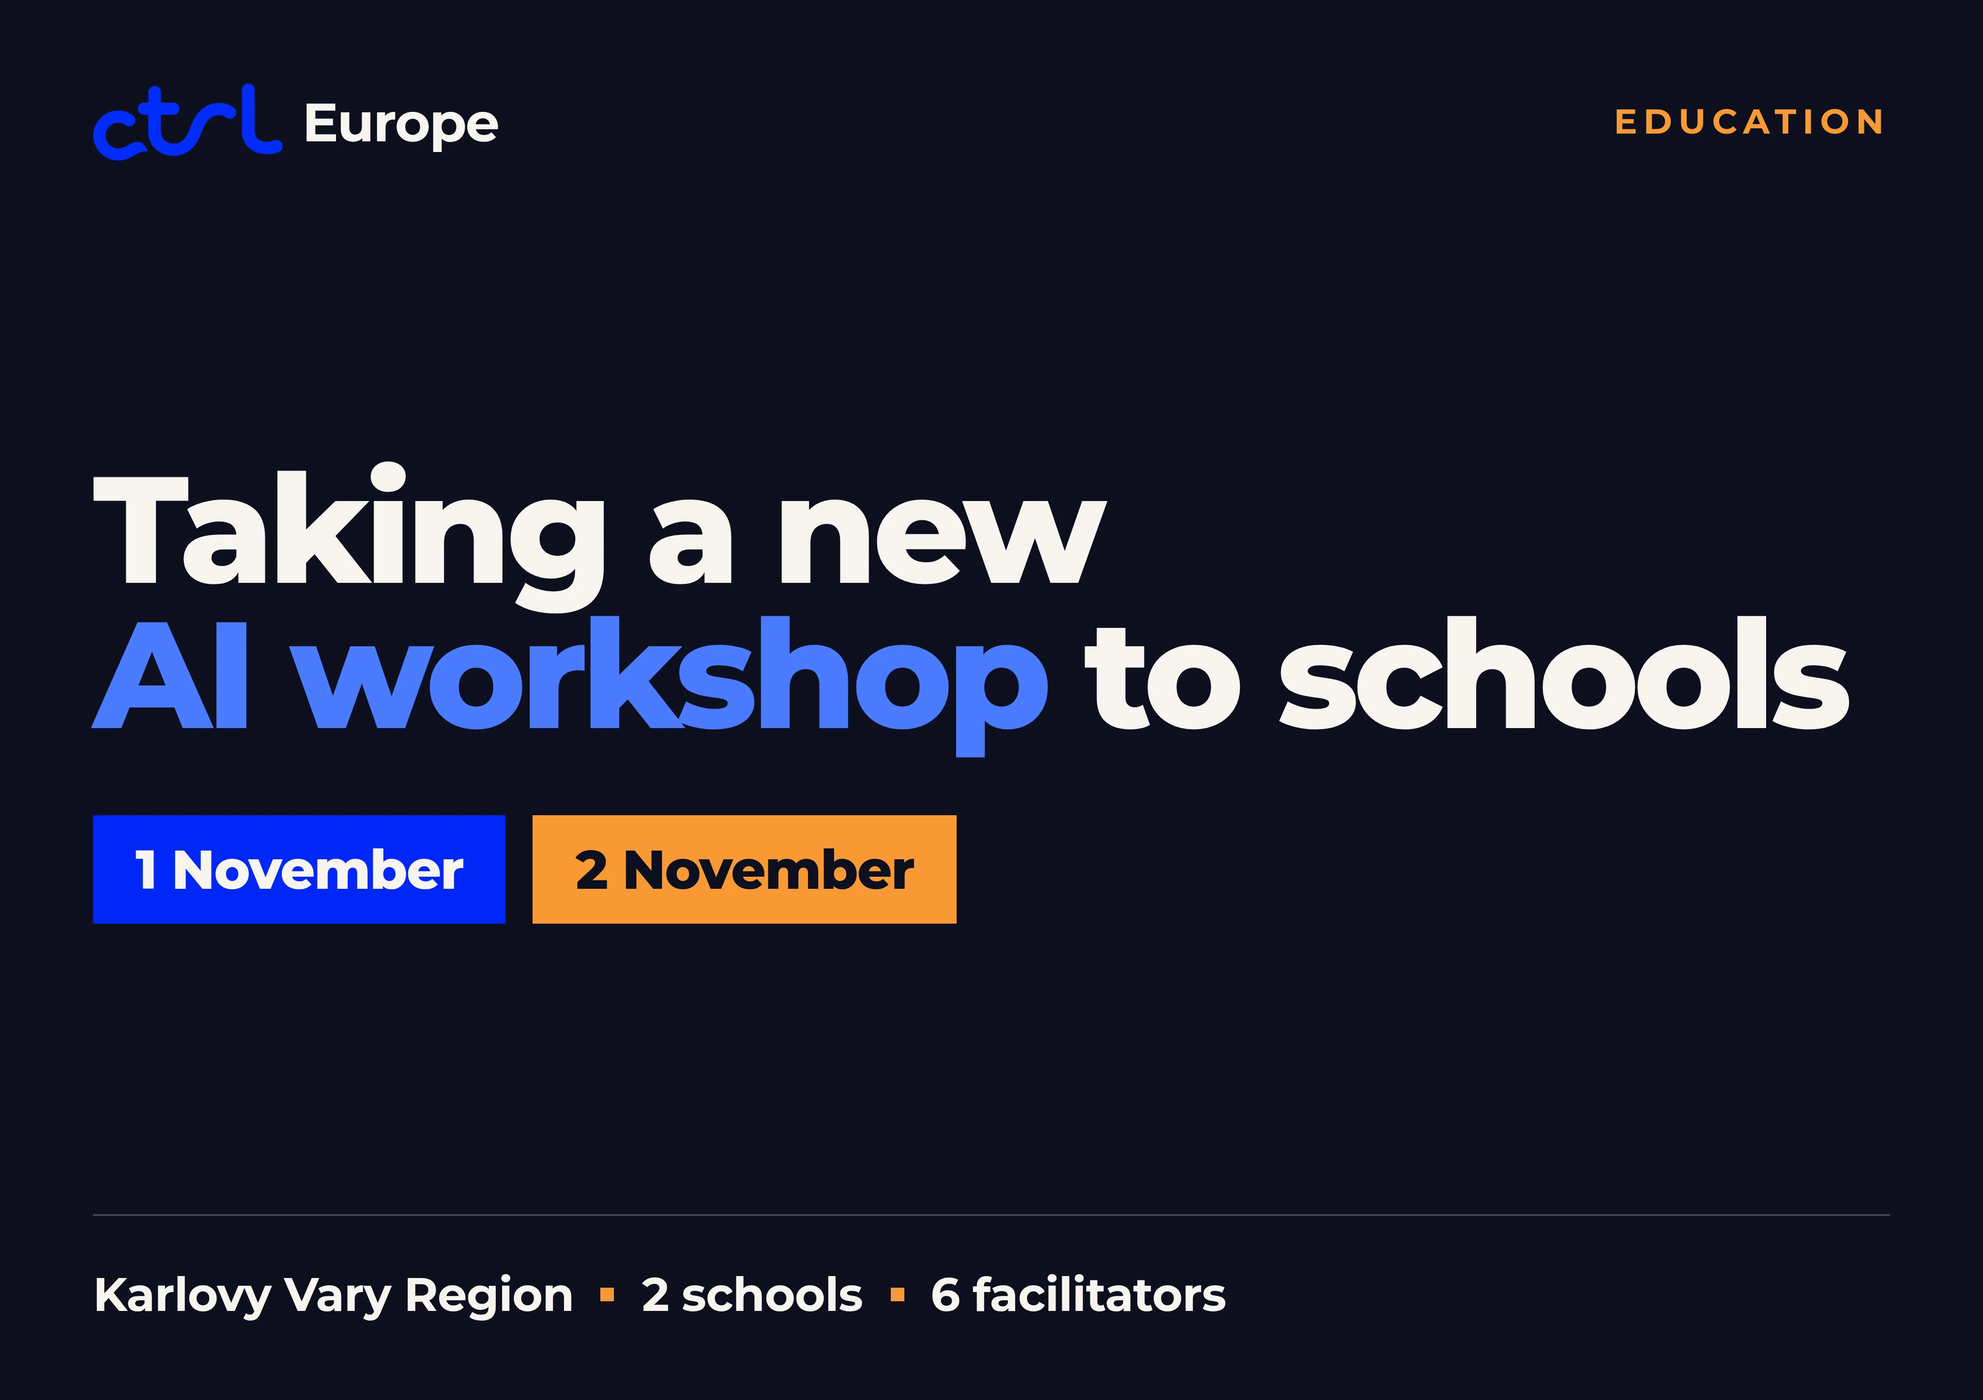
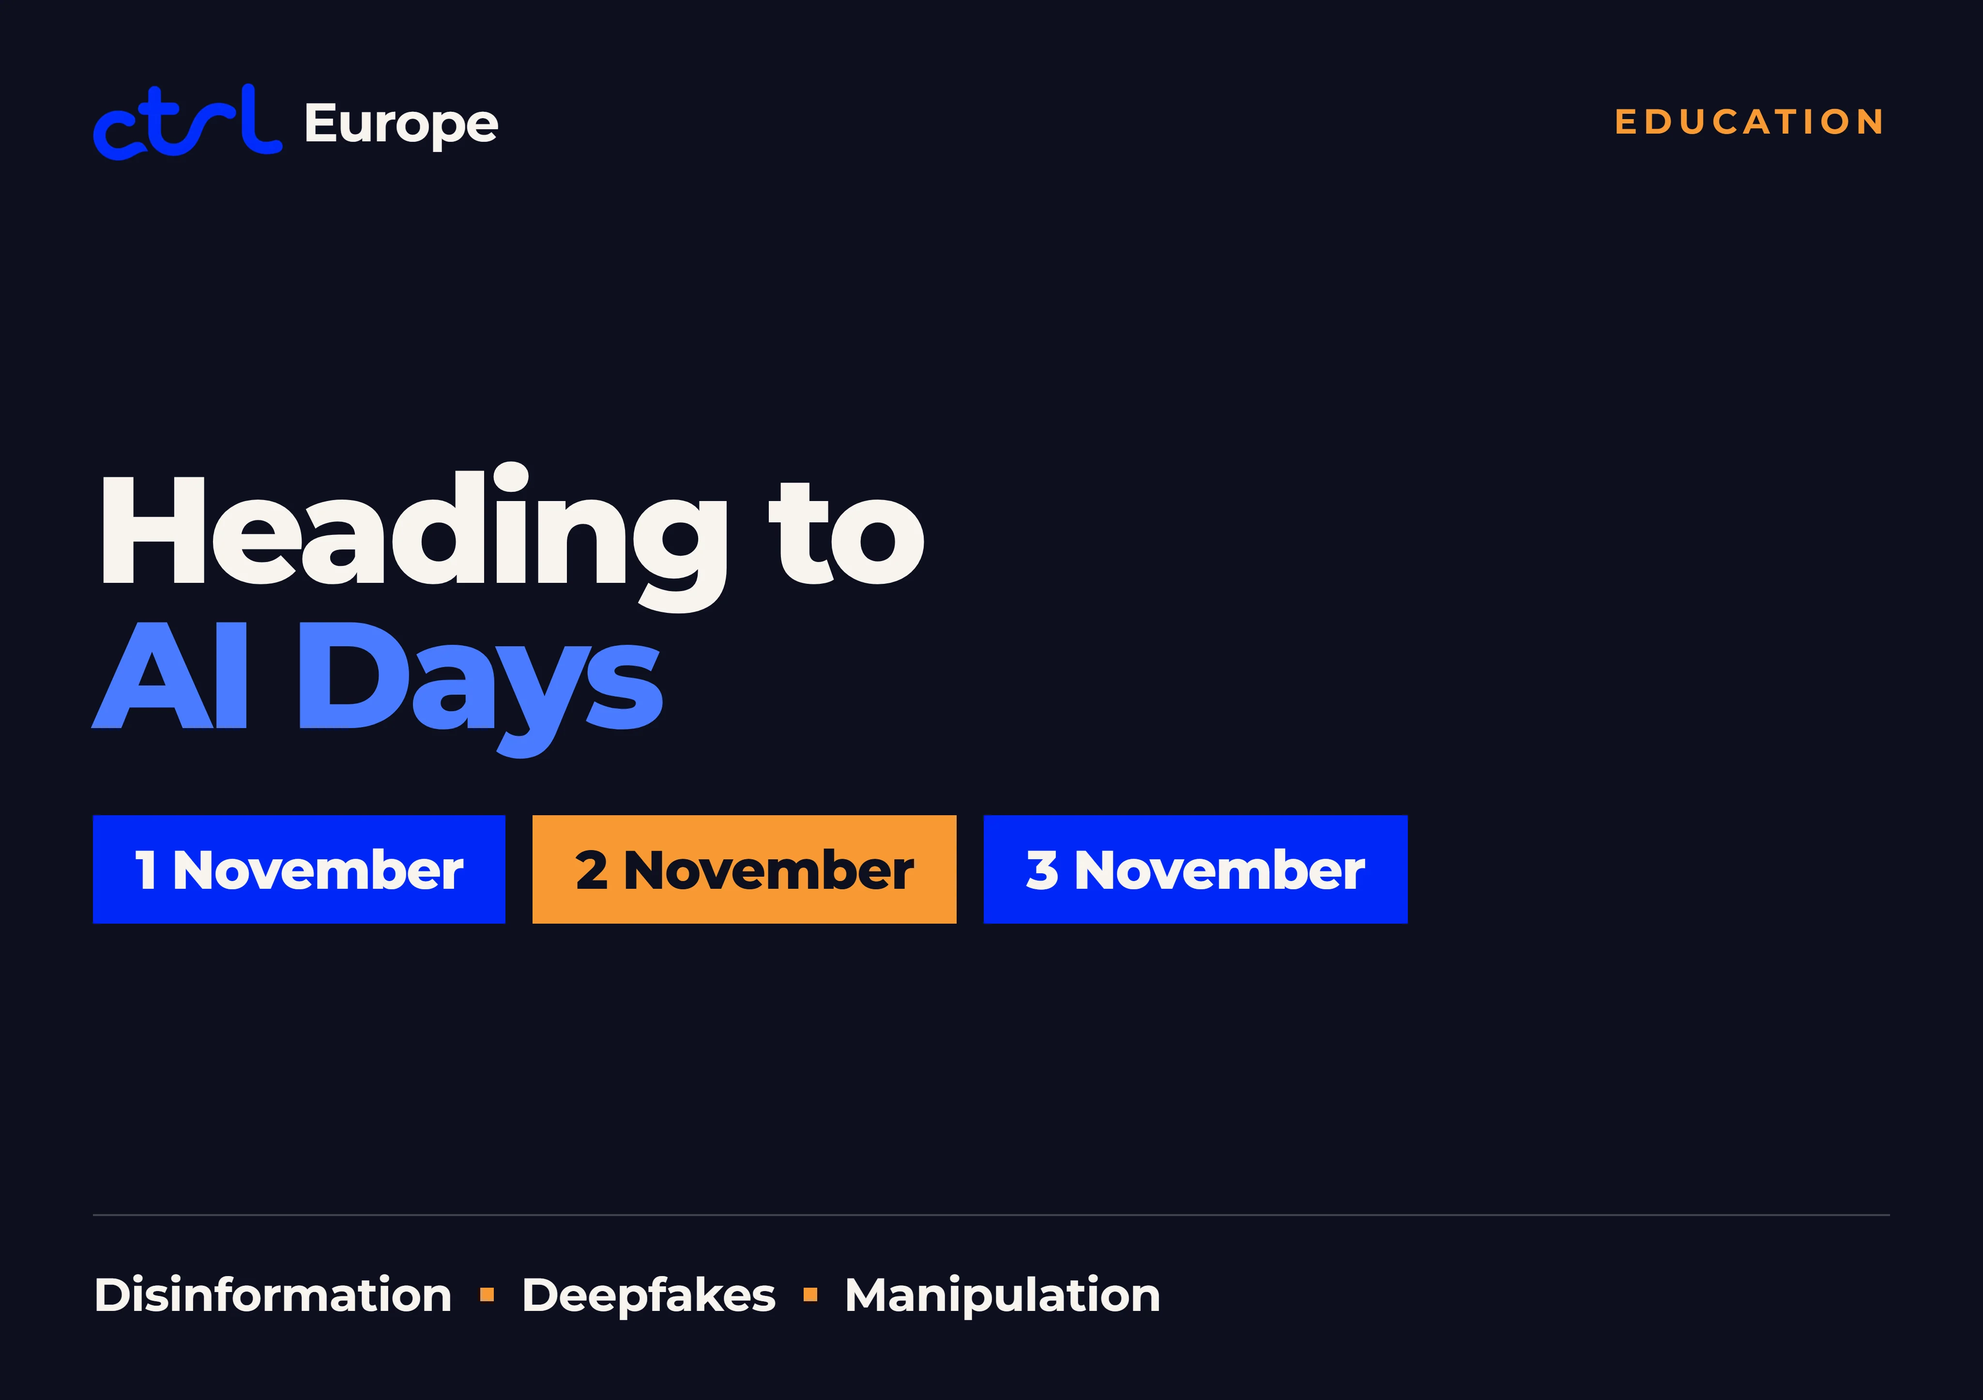
copy(news): Dny AI 1.–3. listopadu, Challenge 8. prosince, bez věku zakladatele
Aktualita o Dnech AI pořád popisovala dva dny workshopů v Karlovarském kraji. Je to výjezd na Dny AI s workshopem o dezinformacích, deepfakes a manipulaci.

Co se změnilo:
- /news/dny-ai: titulek, text, fakta i plakát, termín 1.–3. listopadu
- CTRL Challenge je 8. prosince, včetně plakátu
- O nás: u Jana Krejčího zmizel věk z faktů i z textu

Ověření: /about, /news/dny-ai a /news/ctrl-challenge.
Stránka Akce v pracovním stromu není součástí tohoto commitu.

Changed region(s): [[0.0312, 0.3112, 0.9375, 0.5602], [0.4688, 0.5602, 0.7188, 0.6846], [0.0312, 0.9025, 0.625, 0.9647]]

diff --git a/src/data/news.js b/src/data/news.js
@@ -195,150 +195,78 @@ export const NEWS = [
     inviteHeight: NEWS_INVITE.height,
     banner: {
       variant: "orb",
-      date: { cs: "1.–2. listopadu", en: "1–2 November" },
+      date: { cs: "1.–3. listopadu", en: "1–3 November" },
       points: {
-        cs: ["Karlovarský kraj", "2 gymnázia", "6 lektorů"],
-        en: ["Karlovy Vary Region", "2 schools", "6 facilitators"],
+        cs: ["Dezinformace", "Deepfakes", "Manipulace"],
+        en: ["Disinformation", "Deepfakes", "Manipulation"],
       },
     },
     category: { cs: "Vzdělávání", en: "Education" },
     title: {
-      cs: "Vyrážíme s novým workshopem o AI",
-      en: "We're taking a new AI workshop to schools",
+      cs: "Vyrážíme na Dny AI",
+      en: "We're heading to AI Days",
     },
     excerpt: {
-      cs: "1.–2. listopadu povede vedení CTRL Europe dva dny workshopů o umělé inteligenci a manipulaci na gymnáziích v Karlovarském kraji.",
-      en: "On 1–2 November, the CTRL Europe leadership will run two days of workshops on artificial intelligence and manipulation at grammar schools in the Karlovy Vary Region.",
+      cs: "1.–3. listopadu jedeme na Dny AI s workshopem o dezinformacích, deepfakes a manipulaci.",
+      en: "On 1–3 November we are going to AI Days with a workshop on disinformation, deepfakes and manipulation.",
     },
     meta: {
       cs: {
-        title: "Vyrážíme s novým workshopem o AI | CTRL Europe",
+        title: "Vyrážíme na Dny AI | CTRL Europe",
         description:
-          "1.–2. listopadu 2026 dva dny workshopů Dnů AI na gymnáziích v Karlovarském kraji. Šest lektorů z vedení, vlastní náplň a webová aplikace k programu.",
+          "1.–3. listopadu 2026 jedeme na Dny AI s workshopem o dezinformacích, deepfakes a manipulaci.",
       },
       en: {
-        title: "We're taking a new AI workshop to schools | CTRL Europe",
+        title: "We're heading to AI Days | CTRL Europe",
         description:
-          "On 1–2 November 2026, two days of AI Days workshops at grammar schools in the Karlovy Vary Region. Six facilitators from the leadership, a programme we wrote, and a web app that runs alongside it.",
+          "On 1–3 November 2026 we are going to AI Days with a workshop on disinformation, deepfakes and manipulation.",
       },
     },
     sections: [
       {
         type: "marquee",
         phrases: {
-          cs: ["1.–2. listopadu.", "Dvě gymnázia.", "Dva dny workshopů."],
-          en: ["1–2 November.", "Two schools.", "Two days of workshops."],
+          cs: ["1.–3. listopadu.", "Dny AI.", "Dezinformace, deepfakes, manipulace."],
+          en: ["1–3 November.", "AI Days.", "Disinformation, deepfakes, manipulation."],
         },
       },
       {
         type: "p",
-        cs: "1.–2. listopadu povede naše vedení dva dny workshopů o umělé inteligenci a manipulaci na gymnáziích v Karlovarském kraji v rámci nově spuštěného vzdělávacího programu CTRL Europe.",
-        en: "On 1–2 November our leadership will run two days of workshops on artificial intelligence and manipulation at grammar schools in the Karlovy Vary Region, as part of a newly launched CTRL Europe education programme.",
+        cs: "1.–3. listopadu vyrážíme na Dny AI. Bereme s sebou workshop o dezinformacích, deepfakes a manipulaci.",
+        en: "On 1–3 November we are heading to AI Days. We are bringing a workshop on disinformation, deepfakes and manipulation.",
       },
       {
         type: "h2",
-        id: "program",
-        cs: "Nový program jde do škol",
-        en: "A new programme goes into schools",
+        id: "workshop",
+        cs: "O čem je workshop",
+        en: "What the workshop is about",
       },
       {
         type: "p",
-        cs: "V rámci Dnů AI odučí šest lidí z vedení CTRL Europe dva dny workshopů na téma umělé inteligence, manipulace a digitálních závislostí přímo na gymnáziích v Karlovarském kraji.",
-        en: "During the AI Days, six people from the CTRL Europe leadership will teach two days of workshops on artificial intelligence, manipulation and digital addictions, in grammar schools in the Karlovy Vary Region.",
-      },
-      {
-        type: "p",
-        cs: "Jde o program, který jsme připravovali několik měsíců — vlastní náplň workshopu i webovou aplikaci, která ho provází. Cílem je, aby se postupně rozšířil na školy po celé střední Evropě.",
-        en: "It is a programme we spent several months preparing — the workshop itself, and a web app that runs alongside it. The aim is for it to spread, over time, to schools across Central Europe.",
-      },
-      {
-        type: "h2",
-        id: "skoly",
-        cs: "Dva dny, dvě gymnázia",
-        en: "Two days, two schools",
-      },
-      {
-        type: "p",
-        cs: "Každý den jiné gymnázium v Karlovarském kraji. Jména škol doplníme, až budou potvrzená.",
-        en: "A different grammar school in the Karlovy Vary Region each day. We'll add the school names once they are confirmed.",
-      },
-      {
-        type: "timeline",
-        items: [
-          {
-            time: "1. 11.",
-            cs: "První den workshopů.",
-            en: "First day of workshops.",
-          },
-          {
-            time: "2. 11.",
-            cs: "Druhý den workshopů.",
-            en: "Second day of workshops.",
-          },
-        ],
-      },
-      {
-        type: "h2",
-        id: "priprava",
-        cs: "Za programem je práce",
-        en: "There is work behind the programme",
-      },
-      {
-        type: "timeline",
-        items: [
-          {
-            time: "01",
-            cs: "Napsali jsme náplň workshopu. Struktura, aktivity a časování celého programu o AI a manipulaci.",
-            en: "We wrote the workshop. The structure, activities and timing of the whole programme on AI and manipulation.",
-          },
-          {
-            time: "02",
-            cs: "Postavili jsme vlastní webovou aplikaci. Interaktivní nástroj, který workshop provází a dělá ho zážitkovým.",
-            en: "We built our own web app. An interactive tool that runs with the workshop and makes it something you take part in.",
-          },
-          {
-            time: "03",
-            cs: "Jdeme na první gymnázia. Dva dny workshopů, dvě školy, reální studenti.",
-            en: "We're going into the first grammar schools. Two days of workshops, two schools, real students.",
-          },
-        ],
-      },
-      {
-        type: "h2",
-        id: "start",
-        cs: "Program startuje",
-        en: "The programme starts",
+        cs: "Dezinformace. Deepfakes. Manipulace. Tři věci, které studenti potkávají každý den a které se ve škole skoro neučí.",
+        en: "Disinformation. Deepfakes. Manipulation. Three things students run into every day, and that school barely teaches.",
       },
       {
         type: "facts",
         items: [
           {
             label: { cs: "Kdy", en: "When" },
-            value: { cs: "1.–2. 11. 2026", en: "1–2 Nov 2026" },
+            value: { cs: "1.–3. 11. 2026", en: "1–3 Nov 2026" },
           },
           {
-            label: { cs: "Kde", en: "Where" },
-            value: { cs: "Karlovarský kraj", en: "Karlovy Vary Region" },
+            label: { cs: "Kam", en: "Where" },
+            value: { cs: "Dny AI", en: "AI Days" },
           },
           {
-            label: { cs: "Lektoři", en: "Facilitators" },
-            value: { cs: "6 z vedení", en: "6 from the board" },
-          },
-          {
-            label: { cs: "Workshopy", en: "Workshops" },
-            value: { cs: "2 dny", en: "2 days" },
+            label: { cs: "Workshop", en: "Workshop" },
+            value: { cs: "Dezinformace, deepfakes, manipulace", en: "Disinformation, deepfakes, manipulation" },
           },
         ],
       },
       {
-        type: "p",
-        cs: "Workshopy zatím vede přímo naše vedení. Postupně program předáme certifikovaným lektorům po celé zemi, aby se dostal na co nejvíc škol.",
-        en: "For now the workshops are led by our own leadership. Over time we will hand the programme to certified facilitators across the country, so it can reach as many schools as possible.",
-      },
-      {
         type: "quote",
-        cs: "Chceme, aby studenti odešli s pocitem, že umělé inteligenci rozumí líp než ráno.",
-        en: "We want students to leave feeling they understand artificial intelligence better than they did that morning.",
+        cs: "Chceme, aby studenti poznali dezinformaci, deepfake i manipulaci dřív, než jim uvěří.",
+        en: "We want students to recognise disinformation, a deepfake and manipulation before they believe them.",
         author: {
           cs: "Tým vedení CTRL Europe",
           en: "The CTRL Europe leadership team",
@@ -352,12 +280,12 @@ export const NEWS = [
       {
         type: "p",
         cs: [
-          "Po pilotním testu spouštíme workshopy pro školy po celé České republice — zdarma. Napiš na ",
+          "Workshop o dezinformacích, deepfakes a manipulaci bereme i na školy — zdarma. Napiš na ",
           { text: CONTACT_EMAIL, href: `mailto:${CONTACT_EMAIL}` },
           ".",
         ],
         en: [
-          "After the pilot we are opening the workshops to schools across the Czech Republic — free of charge. Write to ",
+          "We also bring the workshop on disinformation, deepfakes and manipulation into schools — free of charge. Write to ",
           { text: CONTACT_EMAIL, href: `mailto:${CONTACT_EMAIL}` },
           ".",
         ],
@@ -366,7 +294,7 @@ export const NEWS = [
   },
   {
     slug: "ctrl-challenge",
-    date: "2026-12-04",
+    date: "2026-12-08",
     published: "2026-09-27",
     invite: {
       cs: "/photos/news/challenge-cs.webp",
@@ -376,7 +304,7 @@ export const NEWS = [
     inviteHeight: NEWS_INVITE.height,
     banner: {
       variant: "rail",
-      date: { cs: "4. prosince", en: "4 December" },
+      date: { cs: "8. prosince", en: "8 December" },
       points: {
         cs: ["Bez AI", "Týmy", "Střední školy"],
         en: ["No AI", "Teams", "Secondary schools"],
@@ -388,33 +316,33 @@ export const NEWS = [
       en: "Become a digital investigator",
     },
     excerpt: {
-      cs: "4. prosince pořádáme CTRL Challenge — vyšetřovací kybernetickou soutěž pro středoškoláky, kde týmy řeší reálné případy manipulace a dezinformací.",
-      en: "On 4 December we are holding CTRL Challenge — an investigative cybersecurity competition for secondary-school students, where teams work real cases of manipulation and disinformation.",
+      cs: "8. prosince pořádáme CTRL Challenge — vyšetřovací kybernetickou soutěž pro středoškoláky, kde týmy řeší reálné případy manipulace a dezinformací.",
+      en: "On 8 December we are holding CTRL Challenge — an investigative cybersecurity competition for secondary-school students, where teams work real cases of manipulation and disinformation.",
     },
     meta: {
       cs: {
         title: "CTRL Challenge: staňte se digitálním vyšetřovatelem | CTRL Europe",
         description:
-          "4. prosince 2026 CTRL Challenge v Brně. Týmy středoškoláků vyšetřují reálné případy manipulace bez umělé inteligence. Registrace v listopadu.",
+          "8. prosince 2026 CTRL Challenge v Brně. Týmy středoškoláků vyšetřují reálné případy manipulace bez umělé inteligence. Registrace v listopadu.",
       },
       en: {
         title: "CTRL Challenge: become a digital investigator | CTRL Europe",
         description:
-          "CTRL Challenge on 4 December 2026. Secondary-school teams investigate real cases of manipulation, without artificial intelligence. Registration opens in November.",
+          "CTRL Challenge on 8 December 2026. Secondary-school teams investigate real cases of manipulation, without artificial intelligence. Registration opens in November.",
       },
     },
     sections: [
       {
         type: "marquee",
         phrases: {
-          cs: ["4. prosince.", "Bez umělé inteligence.", "Jen důkazy."],
-          en: ["4 December.", "No artificial intelligence.", "Just the evidence."],
+          cs: ["8. prosince.", "Bez umělé inteligence.", "Jen důkazy."],
+          en: ["8 December.", "No artificial intelligence.", "Just the evidence."],
         },
       },
       {
         type: "p",
-        cs: "4. prosince pořádáme CTRL Challenge — vyšetřovací kybernetickou soutěž pro středoškoláky a gymnazisty. Týmy vyšetřují reálné případy manipulace a dezinformací.",
-        en: "On 4 December we are holding CTRL Challenge — an investigative cybersecurity competition for secondary-school and grammar-school students. Teams investigate real cases of manipulation and disinformation.",
+        cs: "8. prosince pořádáme CTRL Challenge — vyšetřovací kybernetickou soutěž pro středoškoláky a gymnazisty. Týmy vyšetřují reálné případy manipulace a dezinformací.",
+        en: "On 8 December we are holding CTRL Challenge — an investigative cybersecurity competition for secondary-school and grammar-school students. Teams investigate real cases of manipulation and disinformation.",
       },
       {
         type: "h2",
@@ -437,7 +365,7 @@ export const NEWS = [
         items: [
           {
             label: { cs: "Kdy", en: "When" },
-            value: { cs: "4. 12. 2026", en: "4 Dec 2026" },
+            value: { cs: "8. 12. 2026", en: "8 Dec 2026" },
           },
           {
             label: { cs: "Pro koho", en: "Who" },

diff --git a/scripts/news-posters/posters.html b/scripts/news-posters/posters.html
@@ -424,7 +424,7 @@
   <section class="board challenge" id="challenge-cs">
     <div class="challenge-top">
       <div class="lockup"><img src="../../public/ctrl_logo_cropped.png" alt="" /><span>Europe</span></div>
-      <div class="challenge-date">4. prosince</div>
+      <div class="challenge-date">8. prosince</div>
     </div>
     <div class="challenge-copy">
       <div class="challenge-kicker">Soutěž</div>
@@ -440,7 +440,7 @@
   <section class="board challenge" id="challenge-en">
     <div class="challenge-top">
       <div class="lockup"><img src="../../public/ctrl_logo_cropped.png" alt="" /><span>Europe</span></div>
-      <div class="challenge-date">4 December</div>
+      <div class="challenge-date">8 December</div>
     </div>
     <div class="challenge-copy">
       <div class="challenge-kicker">Competition</div>
@@ -459,13 +459,14 @@
       <div class="ai-label">Vzdělávání</div>
     </div>
     <div class="ai-copy">
-      <div class="ai-title">Vyrážíme s novým<br /><em>workshopem o AI</em></div>
+      <div class="ai-title">Vyrážíme na<br /><em>Dny AI</em></div>
       <div class="ai-dates">
         <span class="ai-chip blue">1. listopadu</span>
         <span class="ai-chip amber">2. listopadu</span>
+        <span class="ai-chip blue">3. listopadu</span>
       </div>
     </div>
-    <div class="ai-foot">Karlovarský kraj<i></i>2 gymnázia<i></i>6 lektorů</div>
+    <div class="ai-foot">Dezinformace<i></i>Deepfakes<i></i>Manipulace</div>
   </section>
 
   <section class="board ai" id="dny-ai-en">
@@ -474,13 +475,14 @@
       <div class="ai-label">Education</div>
     </div>
     <div class="ai-copy">
-      <div class="ai-title">Taking a new<br /><em>AI workshop</em> to schools</div>
+      <div class="ai-title">Heading to<br /><em>AI Days</em></div>
       <div class="ai-dates">
         <span class="ai-chip blue">1 November</span>
         <span class="ai-chip amber">2 November</span>
+        <span class="ai-chip blue">3 November</span>
       </div>
     </div>
-    <div class="ai-foot">Karlovy Vary Region<i></i>2 schools<i></i>6 facilitators</div>
+    <div class="ai-foot">Disinformation<i></i>Deepfakes<i></i>Manipulation</div>
   </section>
 
   <section class="board school" id="videnska-cs">

diff --git a/src/components/ui/NewsTitleText.jsx b/src/components/ui/NewsTitleText.jsx
@@ -4,8 +4,8 @@ const ACCENTS = [
   "Gymnázium Vídeňská",
   "digitálním vyšetřovatelem",
   "digital investigator",
-  "workshopem o AI",
-  "AI workshop",
+  "Dny AI",
+  "AI Days",
   "Slovensko",
   "Slovakia",
   "CTRL Day",

diff --git a/src/data/leadership.js b/src/data/leadership.js
@@ -7,7 +7,6 @@ export const FOUNDER = {
   photoAlt: "Jan Krejčí",
   roleCs: "Prezident & Zakladatel",
   roleEn: "President & Founder",
-  age: "17",
   base: "Brno, CZ",
 };
 
